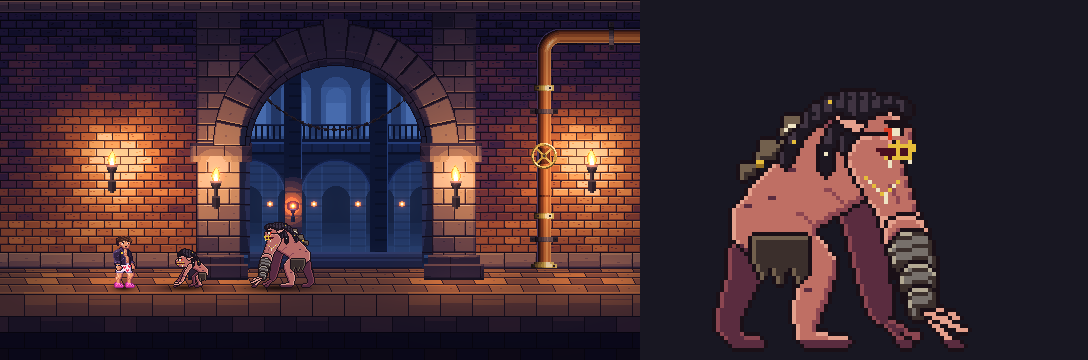
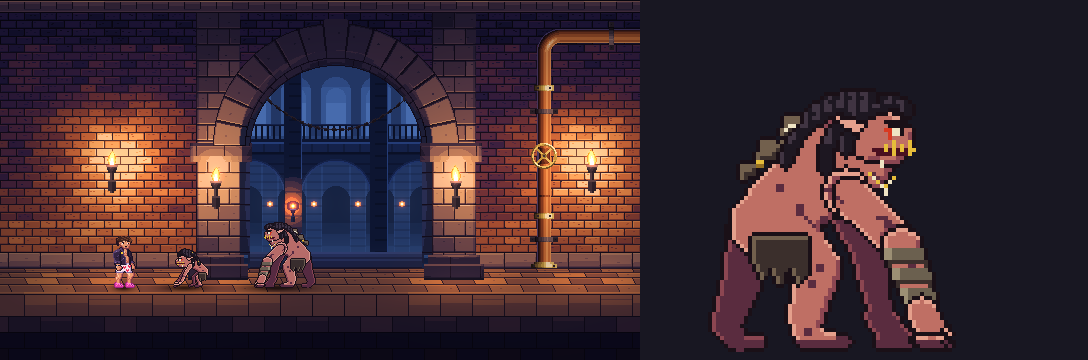
TROG-02: key 0 gate fixes (FIX-KEY0), re-frozen; deviations folded into TROG-01 2b
Fangs plus underbite (no yellow ring), dull rope knots, rimmed deltoid, wraps as
cloth bands on the skin (one step darker, no wider than the arm), knuckle fist,
thicker legs, 1x-visible grime and creases, notched mop. Spec: gate result and
executor notes per key (section 14).

Changed region(s): [[0.6562, 0.3667, 0.9062, 0.9778], [0.2188, 0.6722, 0.2812, 0.7944], [0.6875, 0.5194, 0.7188, 0.55]]

diff --git a/scripts/author_trog02.py b/scripts/author_trog02.py
@@ -37,8 +37,8 @@ H = 66                                   # idle opaque height (family ladder, tr
 # trog-family-v0 core (15, frozen) + the Basher's two slots: forearm wrap mid and light. Necklace and shoulder trash
 # reuse t, w, c, C. 17 of 20.
 PALETTE = t1.PALETTE + [
-    ("g", "wrap_mid", "#77706bff", False),
-    ("G", "wrap_light", "#b3a993ff", False),
+    ("g", "wrap_mid", "#6b604fff", False),
+    ("G", "wrap_light", "#9c8f74ff", False),
 ]
 RAMPS = dict(t1.RAMPS)
 RAMPS.update({
@@ -86,13 +86,13 @@ FACES = {
               "....eewwK.....",
               ".....ewwK.....",
               ".....e....s...",
-              ".......t..t...",
-              ".....tTtTtTt..",
-              "..oooootooto..",
-              "...ooootooto..",
-              "....tTttTtt...",
-              ".....w....w...",
-              ".....w........"],
+              "......t...t...",
+              "....t.t.t.t...",
+              ".ooototototo..",
+              "..ooootoooto..",
+              "..............",
+              "...w..........",
+              "...w.........."],
     # tell and smash: the jaw drops (jaw_b drop 1), 4-row gaping mouth that opens the front outline, tusks low
     "roar": ["....KKKKKK....",
              ".....KKKKK....",
@@ -162,7 +162,8 @@ def jaw_b(hx, hy, drop=1.0):
 
 # Hair: a flatter mop than the Pygmy's (about 0.09 H above the skull top, so the small head stays small) and five rope
 # dreads (radius 1.5) hanging down and back over the nape and the trash heap; longest rope 0.45 H behind the jaw.
-MOP = [(-11, 4), (-11.5, 7.5), (-9.5, 9), (-8, 10.6), (-6, 10.4), (-4, 11.4), (-2, 10.6), (0, 11), (2, 9.6),
+MOP = [(-11, 4), (-11.5, 7.5), (-9.5, 9), (-8, 10.8), (-7, 8.8), (-6, 10.6), (-4, 11.4), (-3, 9.2), (-2, 10.8),
+       (0, 11), (2, 9.6),
        (1, 8), (-2, 7), (-5.5, 5.5), (-8, 4)]
 ROPES = [[(-9, 9), (-14, 8), (-19, 5), (-24, 0), (-26, -5)],
          [(-10, 6), (-14, 2), (-16, -3), (-16, -7)],
@@ -170,7 +171,7 @@ ROPES = [[(-9, 9), (-14, 8), (-19, 5), (-24, 0), (-26, -5)],
          [(-7, 7), (-10, 3), (-11, -2)],
          [(1, 9.6), (3.5, 8.6), (4.5, 7)]]          # the short front lock, ends above the brow
 ROPE_R = 1.5
-BEADS = {0: "t", 1: "w", 2: "t"}
+BEADS = {0: "T", 1: "C", 2: "T"}   # dull knots: a light bead on a rope behind the head reads as a second eye
 EAR = [(-6, 4), (-14.5, 6), (-8.5, 1.5)]          # pointed, straight back, below the crown, skin over the mop
 
 
@@ -193,19 +194,30 @@ def ragged_loin(x0, y0, drop=12.0, half=6.0, lean=0.0):
 
 
 def planted_fist(x, y):
-    """Knuckle-planted hand: three fingers (r 0.8) curling down from the wrist and splaying 7 to 8 px forward along the
-    contact row (claws 0.11 to 0.13 H)."""
-    return [[(x, y), (x + 3.0, y - 2.5), (x + 7.0, 1.3), (x + 9.5, 0.8)],
-            [(x, y), (x + 3.8, y - 1.0), (x + 7.6, y - 3.4), (x + 10.4, y - 4.6)],
-            [(x, y), (x + 2.6, y + 0.8), (x + 6.6, y - 0.6), (x + 9.0, y - 1.6)]]
+    """Knuckle-planted fist: a fist mass under the wrist, a 2 to 3 px knuckle block resting on the contact row and two
+    1 to 2 px claw tips at its front (the third claw is hidden behind the block in profile)."""
+    return [L([(x, y), (x + 2.8, 4.0)], [3.6, 3.6]),
+            L([(x + 0.2, 1.6), (x + 5.6, 1.6)], [1.6, 1.5]),
+            L([(x + 6.0, 1.1), (x + 7.4, 0.8)], [0.55, 0.55]),
+            L([(x + 5.8, 4.4), (x + 7.0, 3.6)], [0.55, 0.55])]
 
 
-def wrap_texture(rows, part, wrap_ids):
-    """Slanted 1 px shade bands every third row across the wraps, so they read as wound strips, not a sleeve."""
-    for y in range(len(rows)):
-        for x in range(len(rows[0])):
-            if part[y][x] in wrap_ids and rows[y][x] in "gG" and (y + x // 4) % 3 == 0:
-                rows[y][x] = "c"
+def wrap_bands(rows, part, ids, bands, P):
+    """Cloth wraps as colour bands on the forearm skin (no silhouette of their own): inside each band (design y range)
+    lit skin goes to G, mid skin to G near the lit edge and g elsewhere, shade to g; the band's lowest row is the c fold.
+    Skin rows stay between the bands."""
+    for y_lo, y_hi in bands:
+        top, bot = int(P(0, y_hi)[1]), int(P(0, y_lo)[1])
+        for y in range(top, bot + 1):
+            for x in range(len(rows[0])):
+                if part[y][x] not in ids or rows[y][x] not in "lmsd":
+                    continue
+                if y == bot:
+                    rows[y][x] = "c"
+                elif rows[y][x] == "l" or (rows[y][x] == "m" and part[y][x - 2] not in ids):
+                    rows[y][x] = "G"
+                else:
+                    rows[y][x] = "g" if rows[y][x] in "ms" else "c"
 
 
 def build(pose: dict) -> list[str]:
@@ -224,7 +236,7 @@ def build(pose: dict) -> list[str]:
     for limb, wid in zip(pose.get("far_wraps", []), far_wrap_ids):
         c.thick(limb["pts"], limb["r"], wid)
     for fin in pose.get("far_fingers", []):
-        c.thick(fin, [0.8] * len(fin), far)
+        c.thick(fin["pts"], fin["r"], far)
     c.thick(pose["torso"]["pts"], pose["torso"]["r"], skin)
     for cx, cy, r in pose.get("masses", []):
         c.disc(cx, cy, r, r, skin)
@@ -239,14 +251,17 @@ def build(pose: dict) -> list[str]:
     c.poly(hd["mop"], hair_id)
     for rope in hd["ropes"]:
         c.thick(rope, [ROPE_R] * len(rope), hair_id)
+    if "deltoid" in pose:                                # near shoulder mass, rimmed where the arm hangs from it
+        dx_, dy_, dr = pose["deltoid"]
+        c.disc(dx_, dy_, dr, dr, c.add("skin"))
     for limb in pose.get("near_arms", []):
         c.thick(limb["pts"], limb["r"], arm)
+    fore_ids = set()
     for limb in pose.get("near_arms_fore", []):
-        c.thick(limb["pts"], limb["r"], c.add("skin"))
-    for limb in pose.get("near_wraps", []):
-        c.thick(limb["pts"], limb["r"], c.add("wrap"))
-    for i, fin in enumerate(pose.get("fingers", [])):
-        c.thick(fin, [0.8] * len(fin), c.add("skin") if i % 3 == 1 else arm)
+        fore_ids.add(c.add("skin"))
+        c.thick(limb["pts"], limb["r"], max(fore_ids))
+    for i, fin in enumerate(pose.get("fingers", [])):     # fist mass, knuckle block, claw tips: each its own part
+        c.thick(fin["pts"], fin["r"], c.add("skin"))
     for e in hd["ears"]:
         c.poly(e, ear)
     rows = c.render()
@@ -258,7 +273,7 @@ def build(pose: dict) -> list[str]:
         bx, by = c.P(*hd["ropes"][i][-2])
         if c.part[int(by)][int(bx)] == hair_id:
             rows[int(by)][int(bx)] = key
-    wrap_texture(rows, c.part, {i for i, r in enumerate(c.ramps) if r in (RAMPS["wrap"], RAMPS["farwrap"])})
+    wrap_bands(rows, c.part, fore_ids, pose.get("wrap_bands", []), c.P)
     for y in range(h):                                   # mottled rim: no clean lit run longer than 5
         run = 0
         for x in range(w + 1):
@@ -268,17 +283,19 @@ def build(pose: dict) -> list[str]:
             if run >= 6:
                 rows[y][x - run + 3] = rows[y][x - run + 4] = "m"
             run = 0
-    for (x0, y0), (x1, y1) in pose.get("creases", []):    # muscle separations: 1 px shade strokes on lit/mid skin
+    for crease in pose.get("creases", []):                # muscle separations: d strokes; bold ones are 2 px wide
+        (x0, y0), (x1, y1), width = crease if len(crease) == 3 else (*crease, 1)
         n = int(max(abs(x1 - x0), abs(y1 - y0))) + 1
         for k in range(n + 1):
             px, py = c.P(x0 + (x1 - x0) * k / n, y0 + (y1 - y0) * k / n)
-            if rows[int(py)][int(px)] in "ml":
-                rows[int(py)][int(px)] = "d" if rows[int(py)][int(px)] == "l" else "s"
-    for gx, gy in pose.get("grime", []):
+            for dx in range(width):
+                if rows[int(py)][int(px) + dx] in "mls":
+                    rows[int(py)][int(px) + dx] = "d"
+    for gx, gy in pose.get("grime", []):                  # 2 x 2 dirt smudges (deep skin) on any lit/mid/shade skin
         px, py = c.P(gx, gy)
-        for dx in (0, 1):
-            if rows[int(py)][int(px) + dx] in "ml":
-                rows[int(py)][int(px) + dx] = "d"
+        for dx, dy in ((0, 0), (1, 0), (0, 1), (1, 1)):
+            if rows[int(py) + dy][int(px) + dx] in "mls":
+                rows[int(py) + dy][int(px) + dx] = "d"
     for y in (PIVOT[1] - 2, PIVOT[1] - 1):               # dirt-caked soles and knuckles
         rows[y] = ["d" if ch in "lms" else ch for ch in rows[y]]
     hx, hy = pose["face_at"]
@@ -310,28 +327,28 @@ POSES: dict[str, dict] = {}
 # head sunk 4.5 px below that peak and 9 px ahead of it; both fists knuckle-planted; wrapped forearms thicker than the
 # upper arms; a junk heap on the upper back under the hanging ropes; a tooth-and-bone necklace across the chest.
 POSES["idle0"] = {
-    "far_limbs": [L([(-20, 29), (-23, 17), (-27, 6), (-24, 1.6), (-19, 1.4)], [5.4, 4.0, 2.8, 1.8, 1.4]),     # far leg
-                  L([(2, 47), (5, 35), (8, 26)], [4.6, 4.0, 4.0])],                                          # far upper arm
-    "far_limbs_fore": [L([(8, 26), (10, 16), (11.5, 9)], [4.4, 4.0, 2.8])],
-    "far_fingers": [[(11.5, 8), (14, 5), (17, 1.3), (19, 0.9)], [(11.5, 8), (15, 6), (18.5, 3.8), (20.5, 3)]],
+    "far_limbs": [L([(-20, 29), (-23, 17), (-27, 6), (-24, 1.6), (-19, 1.4)], [6.4, 4.8, 3.6, 2.2, 1.6]),     # far leg
+                  L([(0, 41), (4, 32), (8, 25)], [4.6, 4.0, 4.0])],                                          # far upper arm
+    "far_limbs_fore": [L([(8, 25), (10, 16), (11.5, 9)], [4.0, 3.6, 2.8])],
+    "far_fingers": planted_fist(11.5, 8),
     "torso": L([(-18, 31), (-7, 40), (5, 47)], [8.0, 10.0, 9.5]),
-    "masses": [(-6, 47, 8.5), (-1, 51.5, 9.0), (5, 50, 8.0)],                                                     # trapezius masses
+    "masses": [(-6, 47, 8.5), (-1, 51.5, 9.0), (5, 50, 8.0)],                                      # trapezius masses
     "trash": [[(-20, 47), (-18, 51.5), (-15, 52.5), (-13, 50), (-15, 46.5)],
               [(-14, 53), (-12, 57.5), (-9, 58.5), (-7.5, 55.5), (-10, 52)],
               [(-24, 42), (-23, 45.5), (-20, 46.5), (-19, 43)]],
-    "near_legs": [L([(-13, 30), (-4, 20), (-7, 8), (-7, 2.5), (0, 1.5), (3, 1.4)], [6.4, 5.0, 3.4, 2.2, 1.5, 1.2])],
+    "near_legs": [L([(-13, 30), (-4, 20), (-7, 8), (-7, 3), (0, 1.8), (3, 1.5)], [7.5, 5.6, 4.5, 2.8, 1.8, 1.3])],
     "loin": ragged_loin(-13, 28, 13.0, 7.0),
     "head": head(14, 52), "hair": hair(14, 52),
-    "near_arms": [L([(10, 47), (15, 36), (18, 28)], [6.4, 5.0, 4.6])],
-    "near_arms_fore": [L([(18, 28), (20.5, 19), (22, 11)], [5.4, 4.8, 3.6])],
-    "near_wraps": [L([(19.3, 24), (20.1, 21)], [5.4, 5.2]), L([(21, 16.5), (21.5, 14)], [4.6, 4.4]),
-                   L([(21.9, 11.4), (22, 10.4)], [3.9, 3.8])],
+    "deltoid": (3, 39, 5.5),
+    "near_arms": [L([(4, 38), (12, 31), (17, 25)], [5.0, 4.6, 4.6])],
+    "near_arms_fore": [L([(17, 25), (20, 17), (22, 11)], [4.8, 4.4, 3.6])],
+    "wrap_bands": [(21.5, 25), (16.5, 19.5), (11, 14.5)],
     "fingers": planted_fist(22, 9),
-    "creases": [((-9, 34), (-5, 31)), ((-2, 40), (2, 37)), ((7, 40), (10, 37)), ((14, 41), (16, 37))],
-    "grime": [(-22, 36), (-11, 45), (-4, 31), (-7, 15), (2, 4), (-16, 38), (12, 38), (-24, 26), (3, 48), (-19, 12)],
-    "stamps": necklace([(8, 42.5), (9, 41.5), (10, 40.5), (11, 39.5), (12, 39), (13, 39), (14, 39.5), (15, 40.5),
-                        (16, 41.5)]) + [(12.5, 38, "w"), (12.5, 37, "w"), (-19, 47, "t"), (-18, 47, "t"), (-19, 46, "T"),
-                                         (-18, 46, "T"), (-12, 55, "w"), (-11, 55.5, "w"), (-10, 56, "w")],
+    "creases": [((-9, 34), (-5, 31)), ((8, 44), (12, 41), 2), ((11, 33), (14, 30), 2), ((-2, 40), (2, 37))],
+    "grime": [(19, 20.5), (21, 15), (-4, 21), (-6, 17), (-9, 36), (-3, 33), (-7, 5), (1, 4), (-13, 25), (-14, 41)],
+    "stamps": necklace([(9, 44), (10, 43), (11, 42), (12, 41), (13, 41), (14, 42), (15, 43)]) + [
+        (12.5, 40, "w"), (12.5, 39, "w"), (-19, 47, "t"), (-18, 47, "t"), (-19, 46, "T"), (-18, 46, "T"),
+        (-12, 55, "w"), (-11, 55.5, "w"), (-10, 56, "w")],
     "face": "snarl", "face_at": (14, 52),
 }
 

diff --git a/docs/02-art/trog-02-spec.md b/docs/02-art/trog-02-spec.md
@@ -1,6 +1,6 @@
 # TROG-02: Troglodyte Basher readability set, design spec
 
-**Status:** design stage. Spec written and hero key 0 (`idle`) drawn and frozen; awaiting the silhouette gate at 1x. Keys 3, 8, 10, 11, 12, 15 and the nine in-betweens are for the execution stage (sections 4, 7 and 8).
+**Status:** design stage complete. Hero key 0 (`idle`) passed the silhouette gate after the seven FIX-KEY0 fixes and is re-frozen; the three deviations from TROG-01 2b are accepted and folded into it (section 13). Keys 3, 8, 10, 11, 12, 15 and the nine in-betweens are for the execution stage (sections 4, 7, 8 and 14).
 
 **Decision record:** idle opaque height 66 px (family ladder), frame 112 x 88, pivot (48, 87), palette `trog-family-v0` core (15) plus 2 Basher slots (`g`, `G`) = 17 of 20, 16 frames with 7 keys in the same slots as the Pygmy (0, 3, 8, 10, 11, 12, 15), all tags grounded, smash debris and dust deferred to the VFX work order. Difficulty 1 point: **Easy (C)**.
 
@@ -36,30 +36,30 @@ Construction numbers at H = 66 (design units: px right of the pivot column, up f
 | Head placement (idle) | jaw centre (14, 52); trapezius peak (-1, 60.5) | the jaw centre is 8.5 px (0.13 H) **below** the peak and 15 px ahead of it |
 | Spine | hips (-18, 31) to the shoulder (5, 47): about 35 degrees | 2b |
 | Torso radii | 8.0 hips, 10.0 belly, 9.5 shoulder; trapezius masses r 8.0 to 9.0 | 2b says 7 to 8 px; widened to 9 to 10 so the brute reads at 1x (see below) |
-| Near arm | shoulder (10, 47) r 6.4, elbow (15, 36) r 5.0, forearm (18, 28) r 4.6 to the wrist (22, 11) r 3.6: 36 px (0.55 H) | knuckles on the floor in the idle |
-| Hands | `planted_fist`: three fingers r 0.8 that curl down from the wrist and splay 7 to 8 px forward along the contact row, with 1 px `K` gaps | 2b claws 0.11 to 0.13 H |
-| Legs | short, thick and deep-bent: thigh r 6.4, knee r 5.0, shin r 3.4, foot r 1.5 | bare feet, dirt-caked on the two rows above the contact row |
-| Hair | flat mop about 3 px (0.05 H) above the skull top; 5 ropes r 1.5, the longest 0.45 H behind the jaw; a short front lock; beads on ropes 0 to 2 | 2b hair rule (no rope rises above the crown) |
+| Near arm | deltoid disc (3, 39) r 5.5 (its own part, so a 1 px `K` rim separates it from the chin and the chest); upper arm (4, 38) r 5.0 to the elbow (12, 31) r 4.6 to (17, 25); forearm part (17, 25) r 4.8 to the wrist (22, 11) r 3.6; shoulder to wrist about 31 px (0.47 H) | the shoulder hangs below the jaw (jaw bottom y 46, deltoid top 44.5); knuckles on the floor in the idle |
+| Hands | `planted_fist(x, y)`: a fist mass r 3.6 under the wrist, a knuckle block r 1.6 (2 to 3 rows) on the contact row 5.4 px long, and two 1 to 2 px claw tips at its front (the third claw hidden in profile); each a separate part, so `K` lines show the curled fingers. The far fist is the same in the `far` ramp | a fist on its knuckles, not a rake |
+| Legs | short, thick and deep-bent: near thigh r 7.5, knee r 5.6, shin r 4.5, foot r 1.8; far leg 6.4, 4.8, 3.6, 2.2 | bare feet, dirt-caked on the two rows above the contact row |
+| Hair | flat mop about 3 px (0.05 H) above the skull top with two rope-tip notches on its top edge; 5 ropes r 1.5, the longest 0.45 H behind the jaw; a short front lock; **dull** knots on ropes 0 to 2 (`T`, `C`, `T`), never `w` | 2b hair rule (no rope rises above the crown) |
 | Ear | pointed, straight back, skin over the mop, below the crown | 2b |
 
-Two deviations from 2b, flagged for review (not silent rewrites):
+Two deviations from the first 2b values, **accepted at the silhouette gate** and folded into `trog-01-spec.md` 2b:
 
 1. **Head sink, 0.13 H instead of 0.05 to 0.08 H.** With the jaw centre 3 to 5 px below the trapezius peak, the first two drafts showed the head sitting **on top of** the shoulders at 1x, like a Pygmy head on a big body. With the head 8 to 9 px below the peak and the trapezius masses rising level with the skull, it reads as "sunk between the shoulders" (the concept). The test `test_small_head_on_a_big_body` pins 0.12 to 0.14 H.
 2. **Mop height, 0.05 H instead of about 0.15 H above the skull top.** A tall mop on a 17 px head doubled the head's apparent size and broke the "small head" read. The flatter mop also keeps the idle at exactly 66 px.
 
-Torso radii of 9 to 10 px (2b: 7 to 8) are the same kind of fix: at 7 to 8 px the 66 px figure read as a lanky ape, not a brute.
+Torso radii of 9 to 10 px (first 2b value 7 to 8; also accepted) are the same kind of fix: at 7 to 8 px the 66 px figure read as a lanky ape, not a brute.
 
 ## 3. Frame, pivot, boxes and atlas
 
 - Frame **112 x 88**, pivot **(48, 87)**, contact row **87**. The 88 px height leaves room for the wind-up (key 8, fists overhead, up to 81 px tall). The 48 px behind the pivot hold the backward fall (key 15) and the trailing far leg; the 63 px ahead hold the smash reach.
-- Key 0 extent: x -30 to +34, rows 22 to 87.
+- Key 0 extent: x -31 to +30, rows 22 to 87.
 - All tags are grounded (V07: the lowest opaque row of every frame is 87). There is no airborne tag: the Basher never leaves the floor.
 - Authored facing right; the runtime mirrors around the pivot column. One atlas, one layer `body`.
 - Boxes are **placeholders**, in px from the pivot (x forward, y up). Each box is re-measured from the drawn keys by the execution stage and none is an approved mechanic. Hurtboxes cover the trunk and head and leave out the trash heap, the ropes and the fingers. The hitbox covers both fists on the floor:
 
 | Box | x | y | Frames |
 | --- | --- | --- | --- |
-| Standing (opaque extent) | -30 to 34 | 0 to 65 | 0 (measured) |
+| Standing (opaque extent) | -31 to 30 | 0 to 65 | 0 (measured) |
 | Hurtbox idle/walk | -26 to 24 | 0 to 58 | 0 to 6 |
 | Hurtbox tell (wind-up) | -22 to 18 | 0 to 70 | 7, 8 |
 | Hurtbox smash | -24 to 30 | 0 to 48 | 9, 10 |
@@ -138,10 +138,10 @@ Family palette `trog-family-v0`: the 15 core colours are imported unchanged from
 | `H I` | hair | core | dreads |
 | `c C` | cloth | core | loincloth, wrap shade (`c`), trash heap (`c`/`C`) |
 | `w e t T o q` | accents and mouth | core | eye, drool, teeth, tusks, necklace beads (`t`/`w`), bone on the heap (`w`), can (`t`/`T`) |
-| `g` | wrap_mid | `#77706b` | **Basher slot 1**: forearm wraps, mid |
-| `G` | wrap_light | `#b3a993` | **Basher slot 2**: forearm wraps, torch-lit side (dirty linen, not white) |
+| `g` | wrap_mid | `#6b604f` | **Basher slot 1**: forearm wraps, mid |
+| `G` | wrap_light | `#9c8f74` | **Basher slot 2**: forearm wraps, torch-lit side (dirty linen, not white) |
 
-Wrap ramps: near `c c g G`, far `K c c g`. Every third row is a slanted 1 px `c` band (`(y + x // 4) % 3 == 0`), so the wraps read as wound strips. They are drawn as **separate band parts** on the skin forearm (three bands, each outlined), not as a sleeve, so skin shows between them. No `e` (eye red) anywhere outside the awake eye, because V14 counts it in hurt and defeat.
+Wraps are **colour bands on the forearm skin** (`wrap_bands`), not parts with their own silhouette, so the wrapped forearm is no wider than the bare one (a separate grey cylinder read as an armoured gauntlet at the gate). Inside a band (a design-y range), lit skin and the 2 px lit edge go to `G`, the rest to `g`, deep shade to `c`, and the band's lowest row is a `c` fold. At least one skin row stays between bands. Key 0 bands: y 21.5 to 25, 16.5 to 19.5, 11 to 14.5 (three bands, 2 skin rows between). No `e` (eye red) anywhere outside the awake eye, because V14 counts it in hurt and defeat.
 
 ## 7. Key poses
 
@@ -149,7 +149,7 @@ Coordinates are design units. Key 0 is the reference. For keys 3 to 15, the join
 
 | Frame | Tag | Silhouette and pose (joints) | Readability reason |
 | --- | --- | --- | --- |
-| 0 | `idle` | **Drawn.** Top row 22 (66 px), x -30 to 34. Torso (-18, 31) to (-7, 40) to (5, 47); trapezius masses (-6, 47) r 8.5, (-1, 51.5) r 9, (5, 50) r 8; jaw centre (14, 52). Near arm (10, 47) to (15, 36) to (18, 28), forearm to the wrist (22, 11), three wrap bands, fist planted with claws to x 32. The far arm, darker, is planted at (11.5, 8). Near leg (-13, 30) to the knee (-4, 20) to (-7, 8) to the toes (3, 1.4); far leg back to (-27, 6). Ragged loin at (-12, 28), 13 deep. Three trash lumps on the upper back (x -24 to -7) with a can (`t`/`T`) and a bone (`w`). A necklace of 9 alternating `t`/`w` beads in a V across the chest, with a 2 px `w` pendant. Snarl face, 10 grime smudges, 4 muscle creases. | A shoulder-heavy, low, wide hunch. The head is small and forward and the forearms are banded. Nothing else on Floor 1 has this mass. |
+| 0 | `idle` | **Drawn, gated.** Top row 22 (66 px), x -31 to 30. Torso (-18, 31) to (-7, 40) to (5, 47); trapezius masses (-6, 47) r 8.5, (-1, 51.5) r 9, (5, 50) r 8; jaw centre (14, 52). Deltoid (3, 39) r 5.5; near arm (4, 38) to (12, 31) to (17, 25), forearm to the wrist (22, 11) with three wrap bands; `planted_fist(22, 9)`. Far arm (0, 41) to (8, 25) to the wrist (11.5, 9), `planted_fist(11.5, 8)` in the far ramp. Near leg (-13, 30) to the knee (-4, 20) to (-7, 8) to the toes (3, 1.5); far leg back to (-27, 6). Ragged loin at (-13, 28), 13 deep. Three trash lumps on the upper back (x -24 to -7) with a can (`t`/`T`) and a bone (`w`). A necklace V of 7 alternating `t`/`w` beads under the jaw, with a 2 px `w` pendant. Snarl face. 10 grime smudges (2 x 2 `d`) on the forearm skin, knee, belly, thigh, feet and back; 4 creases in `d`, the pec and elbow ones 2 px wide. | A shoulder-heavy, low, wide hunch. The head is small and forward, the arm hangs from a rimmed shoulder, and the forearms carry cloth bands. Nothing else on Floor 1 has this mass. |
 | 3 | `walk` | Top row at least 24 (64 px or less). Body 2 px lower and 3 px forward: torso (-17, 29) to (-5, 38) to (8, 45); masses +3 x, -2 y; jaw (17, 50). Near arm reaches far ahead to the wrist (28, 10), fist planted with claws to about x 38; far arm trailing, wrist planted at (4, 10). Near leg pushing back: (-12, 28) to (-6, 18) to (-14, 6) to the toes (-9, 1.4). Far leg forward: (-19, 28) to (-14, 17) to (-16, 5) to (-11, 1.4). Ropes `sweep` 0.5. Snarl face. | Longer and lower than the idle, leading with one fist: a lumbering advance. |
 | 8 | `attack_tell` | Top row 7 to 12 (76 to 81 px; the tallest frame). Reared up: hips (-10, 30) to (-6, 42) to the shoulders (-2, 54), spine about 75 degrees; masses (-6, 58) r 8.5 and (0, 57) r 8; jaw (6, 58) with `jaw_b(drop=1)`, `roar` face. Both upper arms rise from the shoulders to the elbows at about (-5, 68) and (4, 68). The forearms meet overhead: wrists at (-1, 75) and the two fists locked into one block about 8 px wide, top at y 79 to 80; wrap bands on both forearms. Wide braced stance: near leg (-6, 28) to (2, 16) to (0, 5) to (6, 1.4), far leg (-14, 28) to (-20, 16) to (-22, 5) to (-17, 1.4). Loin hangs straight. Ropes hang down the back (`sweep` 0). At most 50 wide. | The only tall, narrow pillar in the set, with the fists overhead and a gaping mouth: "the hammer is up". |
 | 10 | `attack_smash` | Top row at least 38 (50 px or less), at most 84 wide. Pitched forward and down: hips (-16, 30), the high point; shoulders (10, 34); jaw (21, 36), down between the shoulders, `roar` face. Both arms straight down and forward; both fists flat on the contact row with the knuckles at x 28 to 42 (near fist in front, far fist 3 px behind and darker); wraps visible. Near leg braced (-12, 28) to (-4, 16) to (-10, 5) to (-4, 1.4); far leg kicked back (-20, 28) to (-28, 14) to (-34, 4) to (-30, 1.4). Ropes flung forward (`sweep` -0.8). **No debris or dust in the sprite** (VFX order). | The longest and lowest frame, with the fists on the floor far ahead: impact. It contrasts with 8 at once (tallest to lowest). |
@@ -157,7 +157,7 @@ Coordinates are design units. Key 0 is the reference. For keys 3 to 15, the join
 | 12 | `hurt` | Top row at most 16 (72 px or more; taller than the idle). Torso tilted back from the hips (-6, 28) to the shoulders (-14, 50); jaw (-8, 58), **above** the trapezius (the only pose where it is), `pain` face (`jaw_b(drop=0.6)`). Near arm flung back and up to the wrist (-28, 58), fingers fanned; far arm limp forward and down to (2, 26), off the floor. Near knee bent forward to (4, 16); the weight on the back foot (-8, 1.4). Ropes whip forward (`sweep` -0.6). No hand points at the player. | An upright recoil with the head thrown back: unmistakably not the wind-up, because the arms are apart and the head is up and back. |
 | 15 | `down` | Top row at least 60 (28 px or less), at most 76 wide. On its back, fallen backward: shoulders (-14, 9), hips (6, 7), the belly mass up to y 18; head (-26, 8) behind, the mop and ropes spilled on the floor; knee raised (10, 16), feet toward the player at x 18 to 24; near arm flung up to (-4, 24) with its wraps; trash lumps tumbled off behind the head. `dead` face (crossed eye, `q` tongue). | Flat and low with the red eye gone, continuous with the backward recoil of 12. |
 
-Faces (`FACES` in the script, 14 columns, top-left at (hx - 5, hy + 5)): `snarl` (idle, walk, rise), `roar` (wind-up, downswing, impact), `pant` (recover), `pain` (hurt, fall beat), `dead` (impact on the back and the fallen key). The Basher's own facial note is the **underbite**: two lower tusks rise through the gash past the upper teeth (from the face row in `concept_crop_7.png`).
+Faces (`FACES` in the script, 14 columns, top-left at (hx - 5, hy + 5); the gated `snarl` has two 1 x 2 upper fangs and two 1 x 4 lower tusks on a 2-row gash, with no yellow pixels joined into a ring, and the other templates follow that rule): `snarl` (idle, walk, rise), `roar` (wind-up, downswing, impact), `pant` (recover), `pain` (hurt, fall beat), `dead` (impact on the back and the fallen key). The Basher's own facial note is the **underbite**: two lower tusks rise through the gash past the upper teeth (from the face row in `concept_crop_7.png`).
 
 ## 8. In-between list
 
@@ -220,11 +220,24 @@ Fan-concept art under the owner-reported `ART-PUBLICATION-ALL-V1` scope (see `do
 
 - Concept: the owner-approved family sheet under `ART-PUBLICATION-ALL-V1`; packet crops are reference only.
 - Spec + hero key (key 0): Claude Opus.
+- Silhouette gate (FIX-KEY0, an independent reviewer) and the seven key-0 fixes after it: Claude Opus.
 - Remaining keys, in-betweens and execution: pending (medium tier).
 - Silhouette gate and independent review: pending.
 
-## 13. Open questions
+## 13. Gate result and open questions
 
-- The 2b deviations (head sink 0.13 H, flatter mop, torso r 9 to 10) are for the silhouette gate to accept or reject. If accepted, the TROG-01 spec 2b Basher row should be updated by the orchestrator.
-- Whether the wind-up can be interrupted by a hit (super armour) is a gameplay decision.
-- Smash reach, damage and the debris area are placeholders until the gameplay spec sets them.
+- Silhouette gate on key 0: FIX-KEY0, applied. The 1x silhouette and the size ladder passed. The fixes: (1) fangs plus an underbite instead of a closed yellow ring; (2) dull rope knots, so no light pixel sits in a dark rope at eye height; (3) a rimmed deltoid, so the arm hangs from the shoulder, not from the chin; (4) the wraps as cloth bands on the skin, one value step darker, no wider than the arm; (5) a knuckle fist instead of a rake of long fingers; (6) thicker legs; (7) grime and creases that read at 1x (2 x 2 `d` smudges, 2 px pec and elbow creases). Key 0 is re-frozen and the scale evidence regenerated. There is no further gate before execution.
+- The three deviations (head sink 0.13 H, flatter mop with notches, torso r 9 to 10) are accepted and folded into `trog-01-spec.md` 2b.
+- Open: whether the wind-up can be interrupted by a hit (super armour) is a gameplay decision. The smash reach, damage and debris area are placeholders until the gameplay spec sets them.
+
+## 14. Executor notes (keys 3 to 15 and the in-betweens)
+
+Every key and in-between reuses the key-0 construction in `scripts/author_trog02.py`. Add a pose dict to `POSES`, list it in `KEY_FRAMES` or `INBETWEEN`, and extend `TAGS`, the config and the fixture (`pixelart freeze`). Never edit `idle0` or its frozen hash.
+
+- **Parts, every frame:** `deltoid` placed at the near shoulder joint (r 5.5, top at least 1.5 px below the jaw bottom in grounded poses; in 8 it rides up beside the head, still below the jaw line). `near_arms` (upper arm r 5.0 to 4.6) and `near_arms_fore` (r 4.8 to 3.6). `wrap_bands`: three bands, each 3 to 3.5 design units long, spaced 5 to 5.5 along the forearm. In poses where the forearm is not near vertical (8, 9, 10, 12), give the band ranges in design y over the forearm's own y span so that each band crosses the forearm. If a band shrinks below 2 rows, drop it rather than drawing a sliver. `G` must stay at 12 or more in 0 and at 8 or more wherever the forearm is visible.
+- **Hands:** `planted_fist(x, y)` wherever a fist is on the floor (0, 3, 4, 6, 10, 11, the far fist too). Off the floor, use a closed fist: the fist-mass part only (r 3.6) plus one claw tip. The locked double fist in 8 is two fist masses touching, the near one in front. The hurt hand (12) is the only open hand: three 1 px fingers, r 0.55, fanned up and back, 4 to 5 px long.
+- **Face per frame:** `snarl` 0 to 7; `roar` with `jaw_b(drop=1)` 8 to 10; `pant` 11; `pain` with `jaw_b(drop=0.6)` 12 and 13; `dead` 14 and 15. If a template's yellow pixels join into a ring in a pose, move a fang 1 column; never add yellow.
+- **Hair:** `hair(hx, hy, sweep, sway)` with the `sweep` values in section 7. The knots stay dull. No rope point above the crown, except where the hurt and fall whip the tips forward.
+- **Grime and creases:** 8 to 10 smudges per key (2 x 2 `d`), at least 2 on lit skin, at least 1 on a forearm gap and 1 on a knee. The pec and elbow creases stay 2 px wide wherever those muscles show. In-betweens copy the nearer key's smudges, shifted with their parts.
+- **Trash and necklace:** the three trash lumps ride with the trapezius masses (same offset). In 15 they tumble off behind the head, 2 to 4 px apart on the floor. The necklace V hangs from the jaw: below it in grounded poses, swung toward the head in 8 and back toward the chin in 10 and 11, and off to the side on the chest in 15.
+- **Checks before reporting:** `python3 -m scripts.pixelart validate` with the section 9 rules, `pytest -k "trog"`, and `key0-scale` plus the review pack regenerated.

diff --git a/docs/02-art/trog-01-spec.md b/docs/02-art/trog-01-spec.md
@@ -113,7 +113,7 @@ These rules are the family contract. The Pygmy implements them in `scripts/autho
 
 **Order of parts (back to front), the same in every type:** far limbs (darker `far` ramp), torso, near leg, loincloth, head (skull then jaw), dropped jaw when the mouth is open, hair mop and ropes, near arm and fingers, ear, then the face template. Each part after the first gets a 1 px `K` outline where it overlaps an earlier part, so the near arm always separates from the torso and the ear always separates from the hair.
 
-**Body plan:** a hunched biped. Torso: a thick line from the hips to the shoulder hump, radius 0.10 to 0.11 H, hips behind and lower than the hump. Arms are long enough that the hand reaches the floor in the idle (shoulder to wrist about 0.55 H); limbs taper from about 0.05 H to 0.02 H. Deep-bent legs, bare feet, three long fingers per hand (`hand`). 1 px rib strokes on the flank. The Basher widens torso and shoulders to about 0.11 to 0.12 H radius (about 7 to 8 px at 66) and keeps the 0.55 H arm, so its knuckles touch the floor in the idle as well. The Virtuoso keeps the Pygmy's radii in px (so it reads leaner at 66) and lengthens each limb about 15 %; with its straighter spine its hands hang at about 0.15 H above the floor in the idle.
+**Body plan:** a hunched biped. Torso: a thick line from the hips to the shoulder hump, radius 0.10 to 0.11 H, hips behind and lower than the hump. Arms are long enough that the hand reaches the floor in the idle (shoulder to wrist about 0.55 H); limbs taper from about 0.05 H to 0.02 H. Deep-bent legs, bare feet, three long fingers per hand (`hand`). 1 px rib strokes on the flank. The Basher widens torso and shoulders to 0.14 to 0.15 H radius (9 to 10 px at 66; accepted at the TROG-02 silhouette gate, because 7 to 8 px read lanky at 1x), adds trapezius masses that rise level with the skull and a rimmed deltoid the near arm hangs from, and plants its fists on the knuckles in the idle (`docs/02-art/trog-02-spec.md`). The Virtuoso keeps the Pygmy's radii in px (so it reads leaner at 66) and lengthens each limb about 15 %; with its straighter spine its hands hang at about 0.15 H above the floor in the idle.
 
 **Scaled details (stated as fractions of H so the 66 px types do not guess):** claws 0.11 to 0.13 H long (4 to 5 px at 40, 7 to 8 px at 66), 3 per hand; rope dreads: Pygmy 4, Basher 5, Virtuoso 6 to 7, rope radius 0.024 H (0.95 px at 40, 1.5 px at 66), longest rope 0.45 H (Pygmy and Basher) or 0.6 H (Virtuoso); grime smudges 4 to 6 at 40 px and 8 to 10 at 66 px, at least 2 on lit surfaces; the outline stays 1 px `K` at every size (never 2 px).
 
@@ -122,13 +122,13 @@ These rules are the family contract. The Pygmy implements them in `scripts/autho
 | Type | Head width | Skull radius | Jaw centre relative to the hump top (idle) | Spine (hips to hump) from horizontal | Notes |
 | --- | --- | --- | --- | --- | --- |
 | Pygmy | 0.35 H (14 px at 40) | 0.14 H (5.6 px) | 0 to 0.03 H **below** the hump top, 0.25 H ahead of it | about 30 degrees | the head leads; above the hump only in the hurt recoil |
-| Basher | 0.25 H (16 to 17 px at 66) | 0.10 H (6.5 px) | 0.05 to 0.08 H **below** the hump top (3 to 5 px at 66), sunk between the trapezius masses, 0.12 H ahead | about 35 degrees | a small head on a big body is the brute read; never larger than 0.27 H |
+| Basher | 0.25 H (16 to 17 px at 66) | 0.10 H (6.5 px) | 0.12 to 0.14 H **below** the trapezius peak (8 to 9 px at 66), sunk between the trapezius masses, ahead of the peak (accepted at the TROG-02 gate; 3 to 5 px left the head sitting on the shoulders) | about 35 degrees | a small head on a big body is the brute read; never larger than 0.27 H; mop only about 0.05 H above the skull with 1 to 2 rope-tip notches on its top edge (never a helmet slab) |
 | Virtuoso | 0.22 to 0.24 H (15 to 16 px at 66) | 0.09 H (6 px) | 0.10 to 0.14 H **above** the hump top (7 to 9 px at 66), on a visible 0.08 H neck, 0.10 H ahead | about 55 degrees (less hunched) | the head is up so the tongue strike has a clear line; the head-above-hump rule is waived for this type |
 | Juicer | own work order | | | | follows the Basher's head ratio or smaller |
 
 **Face (template, then redraw larger):** placed from the jaw centre (hx, hy). Heavy `K` brow at hx..hx+3; a bulging eye 2 rows by 3 columns (2 x 2 `w` white, 1 or 2 `K` pupil at the front, 2 or 3 `e` red pixels behind and below: bloodshot, never a clean white eye); mouth from the back of the cheek (hx-3) to the front edge (hx+6), at least two thirds of the head length. Idle: clenched `t` teeth row over a dark `o` gash and lower fangs. Roar (tell and attack): a 3-row gaping `o` mouth that breaks the front outline, `q` tongue at the bottom, top and bottom teeth, two drool strands. Pain: the eye squeezed to a `K` slit, no red. Dead: crossed eye, tongue out past the lip. The larger types keep this order and the accents (eye white, red rim, yellow teeth, drool), and add rows (Basher: heavier brow, a 2 to 3 row teeth band; Virtuoso: a narrower mouth that opens taller to release the tongue).
 
-**Hair (dreads, not horns):** a matted crown mop (polygon, `MOP`) sitting on the back two thirds of the skull, about 0.15 H above the skull top, and heavy rope dreads (radius 0.95 px at 40, about 1.5 px at 66) hanging **down and back** from it over the nape and the shoulder hump; the longest ropes reach about 0.45 H behind the jaw centre and end below the jaw line. One short front lock ends above the brow. Rules that keep it from reading as horns at 1x: no rope point ever rises above the crown; every rope ends lower than it starts; the forehead in front of the mop stays skin; the ear (skin) sits on the dark mop and points straight back, below the crown line; every third column of lit hair (`I`) drops to `H` so the mop reads as separate ropes; the mop's top and back edge has three 1 px notches, and ropes 0 to 2 carry a 1 px bead or knot (`t`, `w`, `t`) one point before the tip. Motion streams the tips back and up toward the horizontal (`sweep` 0.6 on the walk, 1.0 in the leap); the hurt recoil whips them forward (`sweep` -0.6). Larger types keep the mop-plus-ropes rule with more and longer ropes (the Virtuoso's reach the middle of the back).
+**Hair (dreads, not horns):** a matted crown mop (polygon, `MOP`) sitting on the back two thirds of the skull, about 0.15 H above the skull top, and heavy rope dreads (radius 0.95 px at 40, about 1.5 px at 66) hanging **down and back** from it over the nape and the shoulder hump; the longest ropes reach about 0.45 H behind the jaw centre and end below the jaw line. One short front lock ends above the brow. Rules that keep it from reading as horns at 1x: no rope point ever rises above the crown; every rope ends lower than it starts; the forehead in front of the mop stays skin; the ear (skin) sits on the dark mop and points straight back, below the crown line; every third column of lit hair (`I`) drops to `H` so the mop reads as separate ropes; the mop's top and back edge has three 1 px notches, and ropes 0 to 2 carry a 1 px bead or knot (`t`, `w`, `t`) one point before the tip. Motion streams the tips back and up toward the horizontal (`sweep` 0.6 on the walk, 1.0 in the leap); the hurt recoil whips them forward (`sweep` -0.6). Larger types keep the mop-plus-ropes rule with more and longer ropes (the Virtuoso's reach the middle of the back); the Basher's mop is flatter (about 0.05 H above the skull, notched) and its rope knots are dull (`T`, `C`), because a light bead on a rope behind its small head reads as a second eye.
 
 **Skin and grime:** one ramp for the family, `d` `#5a2c3f`, `s` `#8c4651`, `m` `#bf6f64`, `l` `#e5a08c` (torch-lit upper-left rim), with the far limbs on `K`/`d`/`d`/`s`. Pale reddish-pink, cooled so it separates from the orange brick. Grime is part of the construction, not decoration: 2 px `d` smudges on lit or mid skin (4 to 6 per key at 40 px, more on the larger types), and the two rows above the contact row (soles, knuckles) are dirt-caked `d`. Rib strokes are `d` where they cross the lit rim and `s` on mid skin. No run of more than 5 clean `l` pixels: the 4th and 5th of a longer run drop to `m`. No clean, evenly lit skin.
 
